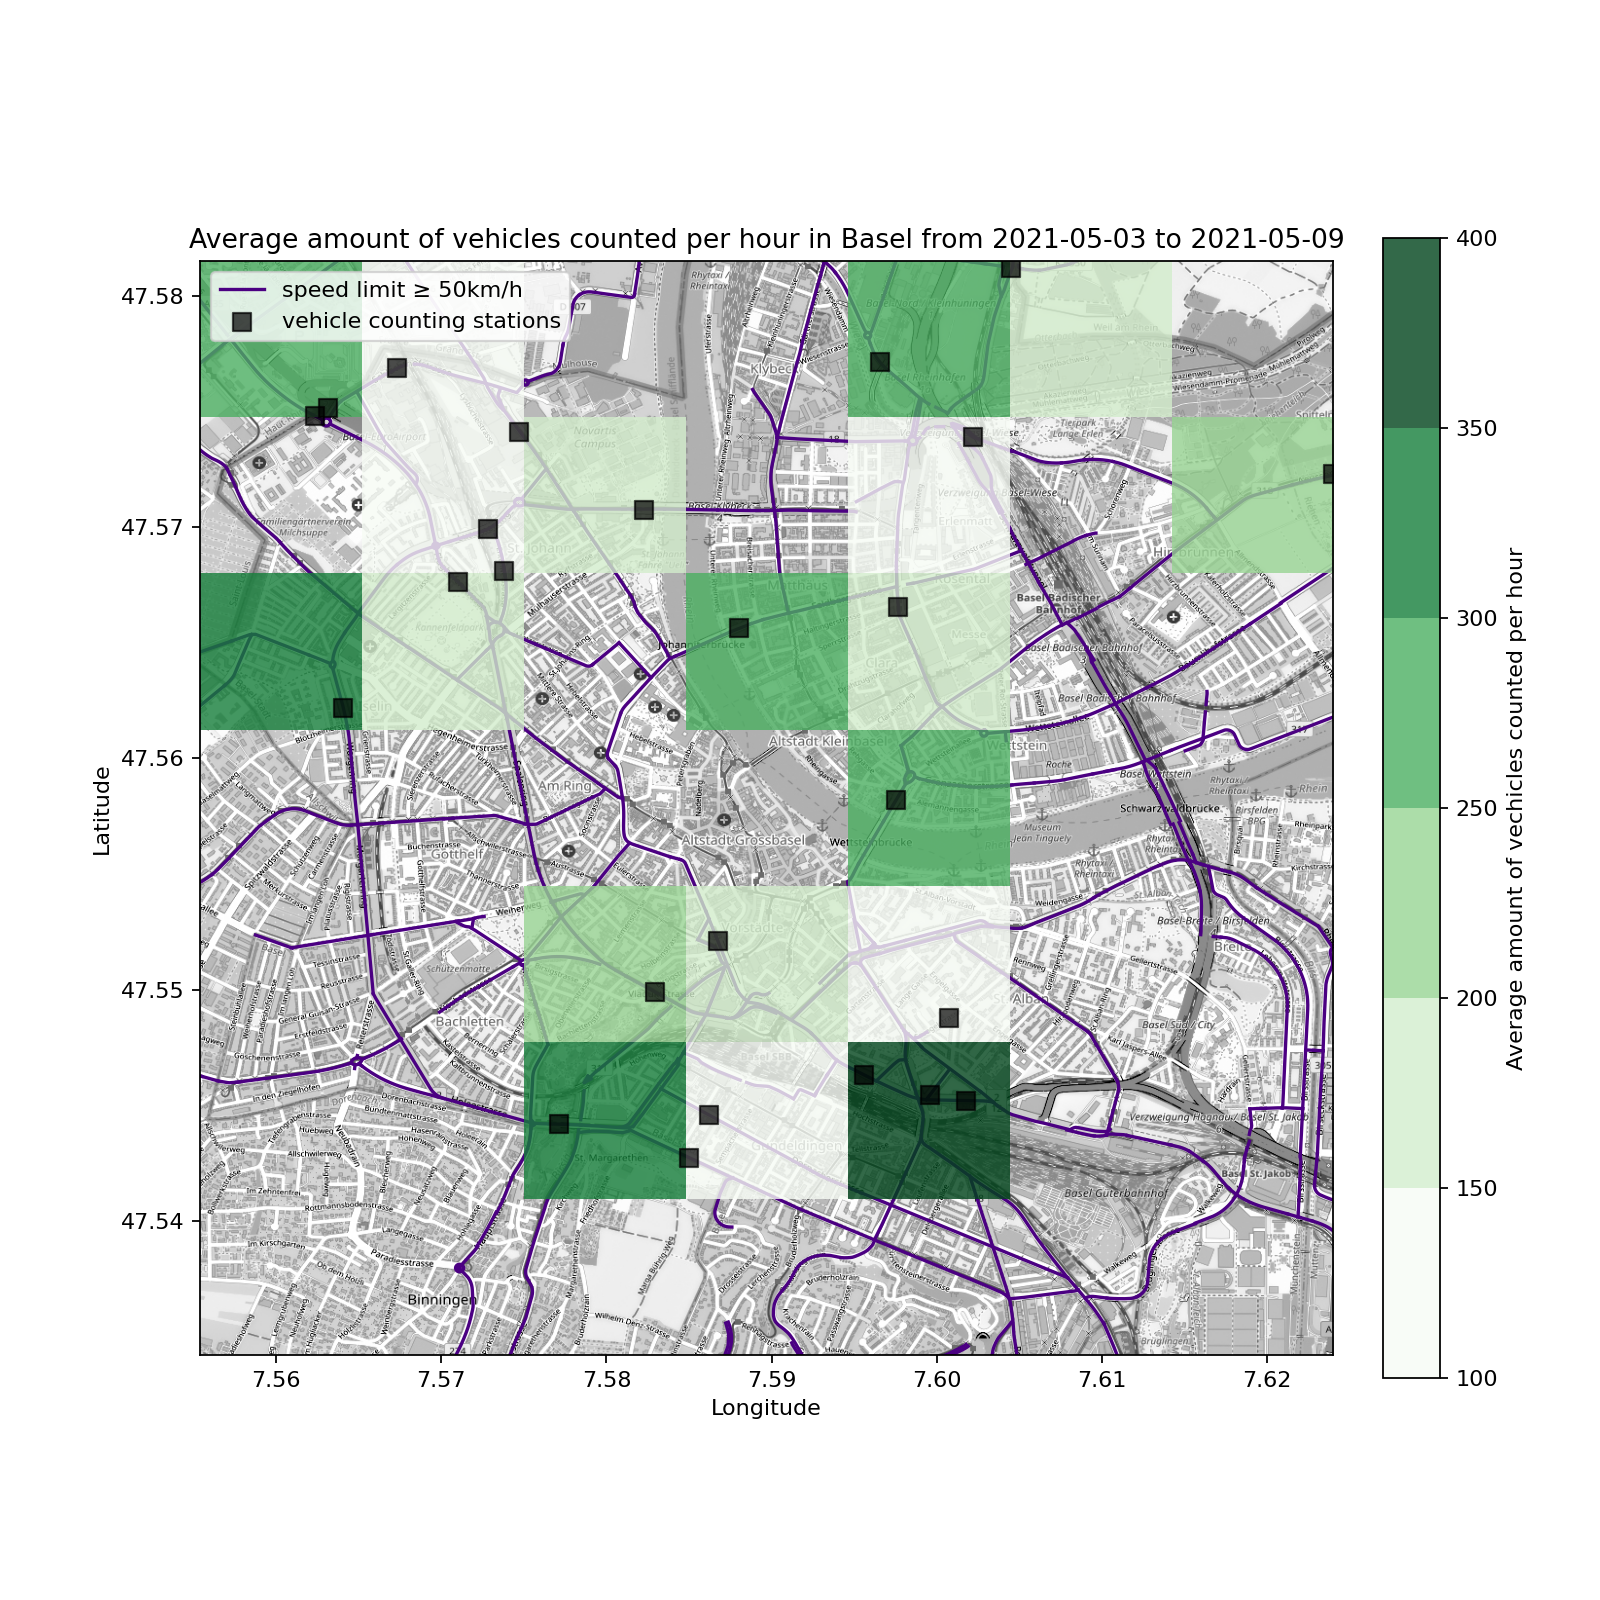
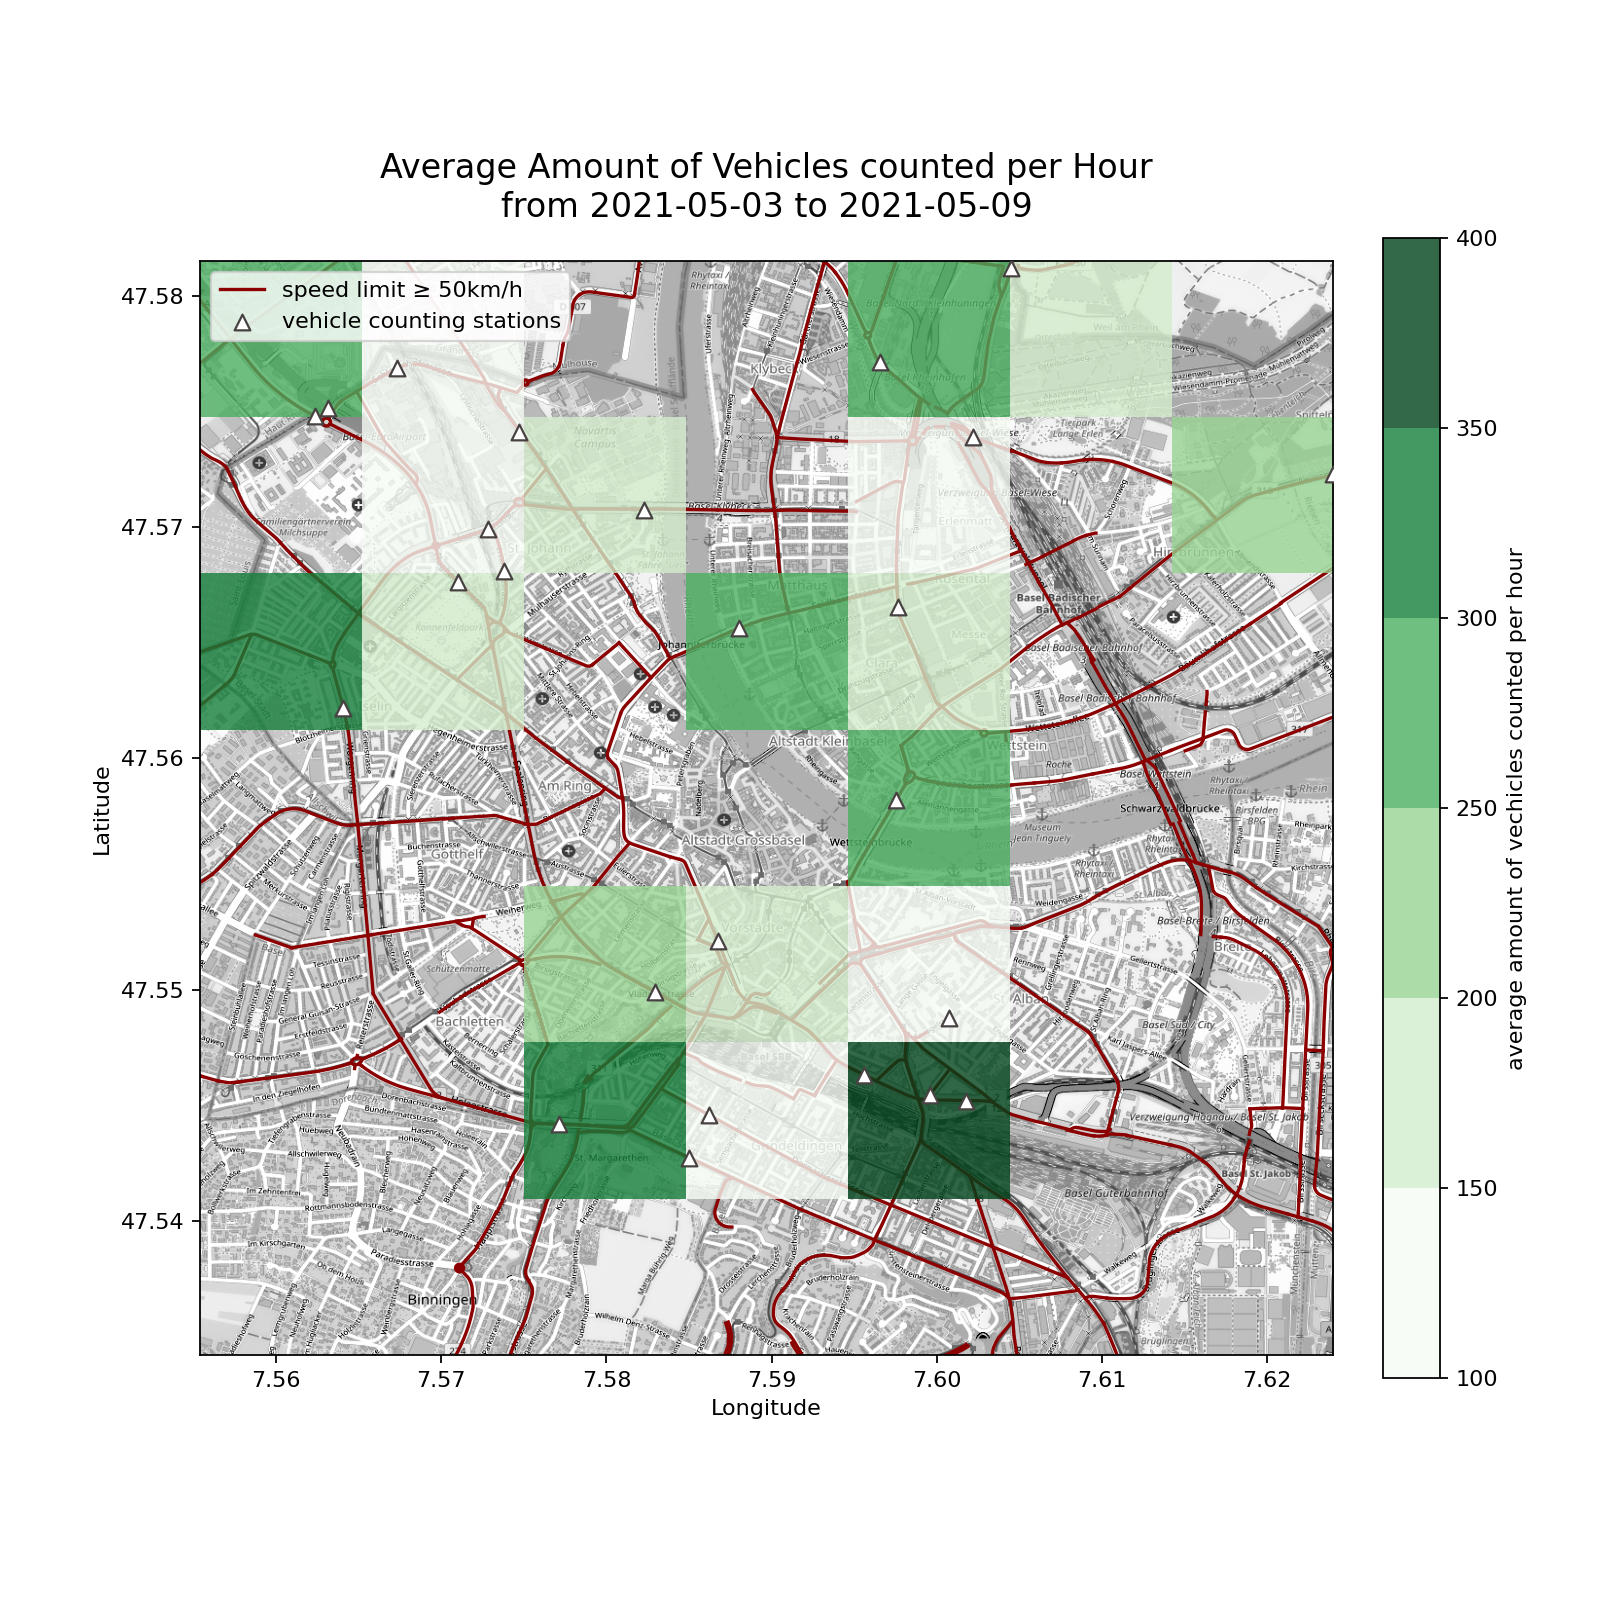
improved colors of avg vehicle plot

diff --git a/final_plots.py b/final_plots.py
@@ -81,26 +81,27 @@ plt.legend()
 plt.xlabel("Longitude")
 plt.ylabel("Latitude")
 plt.savefig("final_plots/average_temperature.png")
-
+'''
 # plot average amount of vehicles
 print("Calulcating vehicle grid...")
 sum_vehicle_grid = vg.vehicle_grid(verkehr, 7, avg=True)
 
 print("Plotting vehicle avg grid...")
 plt.figure(figsize=(10, 10), dpi=160)
-plt.imshow(sum_vehicle_grid, extent=box, zorder=2, alpha=.8, cmap=plt.cm.get_cmap('Reds', 6), origin="lower")
-plt.colorbar(label="Average amount of vechicles counted per hour", fraction=0.046, pad=0.04)
+plt.imshow(sum_vehicle_grid, extent=box, zorder=2, alpha=.8, cmap=plt.cm.get_cmap('Greens', 6), origin="lower")
+plt.colorbar(label="average amount of vechicles counted per hour", fraction=0.046, pad=0.04)
 plt.clim(100, 400)
-streets.plot_streets(zorder=1, color="saddlebrown")
-stations.plot_stations(verkehr, "Geo Point", label="vehicle counting stations", zorder=3, marker="^", color="black", size=70, alpha=.9)
+streets.plot_streets(zorder=1, color="darkred")
+stations.plot_stations(verkehr, "Geo Point", label="vehicle counting stations", zorder=3, marker="^", color="white", size=50, alpha=1, edgecolors="#484141")
 plt.imshow(basel, extent=box, aspect=1.4, zorder=0)
-plt.title(f"Average amount of vehicles counted per hour in Basel from {start} to {end}")
+plt.title(f"Average Amount of Vehicles counted per Hour\nfrom {start} to {end}", fontsize=15, pad=20)
 plt.legend()
 plt.xlabel("Longitude")
 plt.ylabel("Latitude")
 plt.savefig("final_plots/avg_vehicles.png")
-'''
 
+
+'''
 # plot grid correlation plot
 print("Calculating correlation")
 grid = gc.correlation_grid(verkehr, luft, start, end, 7)
@@ -119,3 +120,4 @@ plt.legend()
 plt.xlabel("Longitude")
 plt.ylabel("Latitude")
 plt.savefig("final_plots/grid_correlation.png")
+'''
